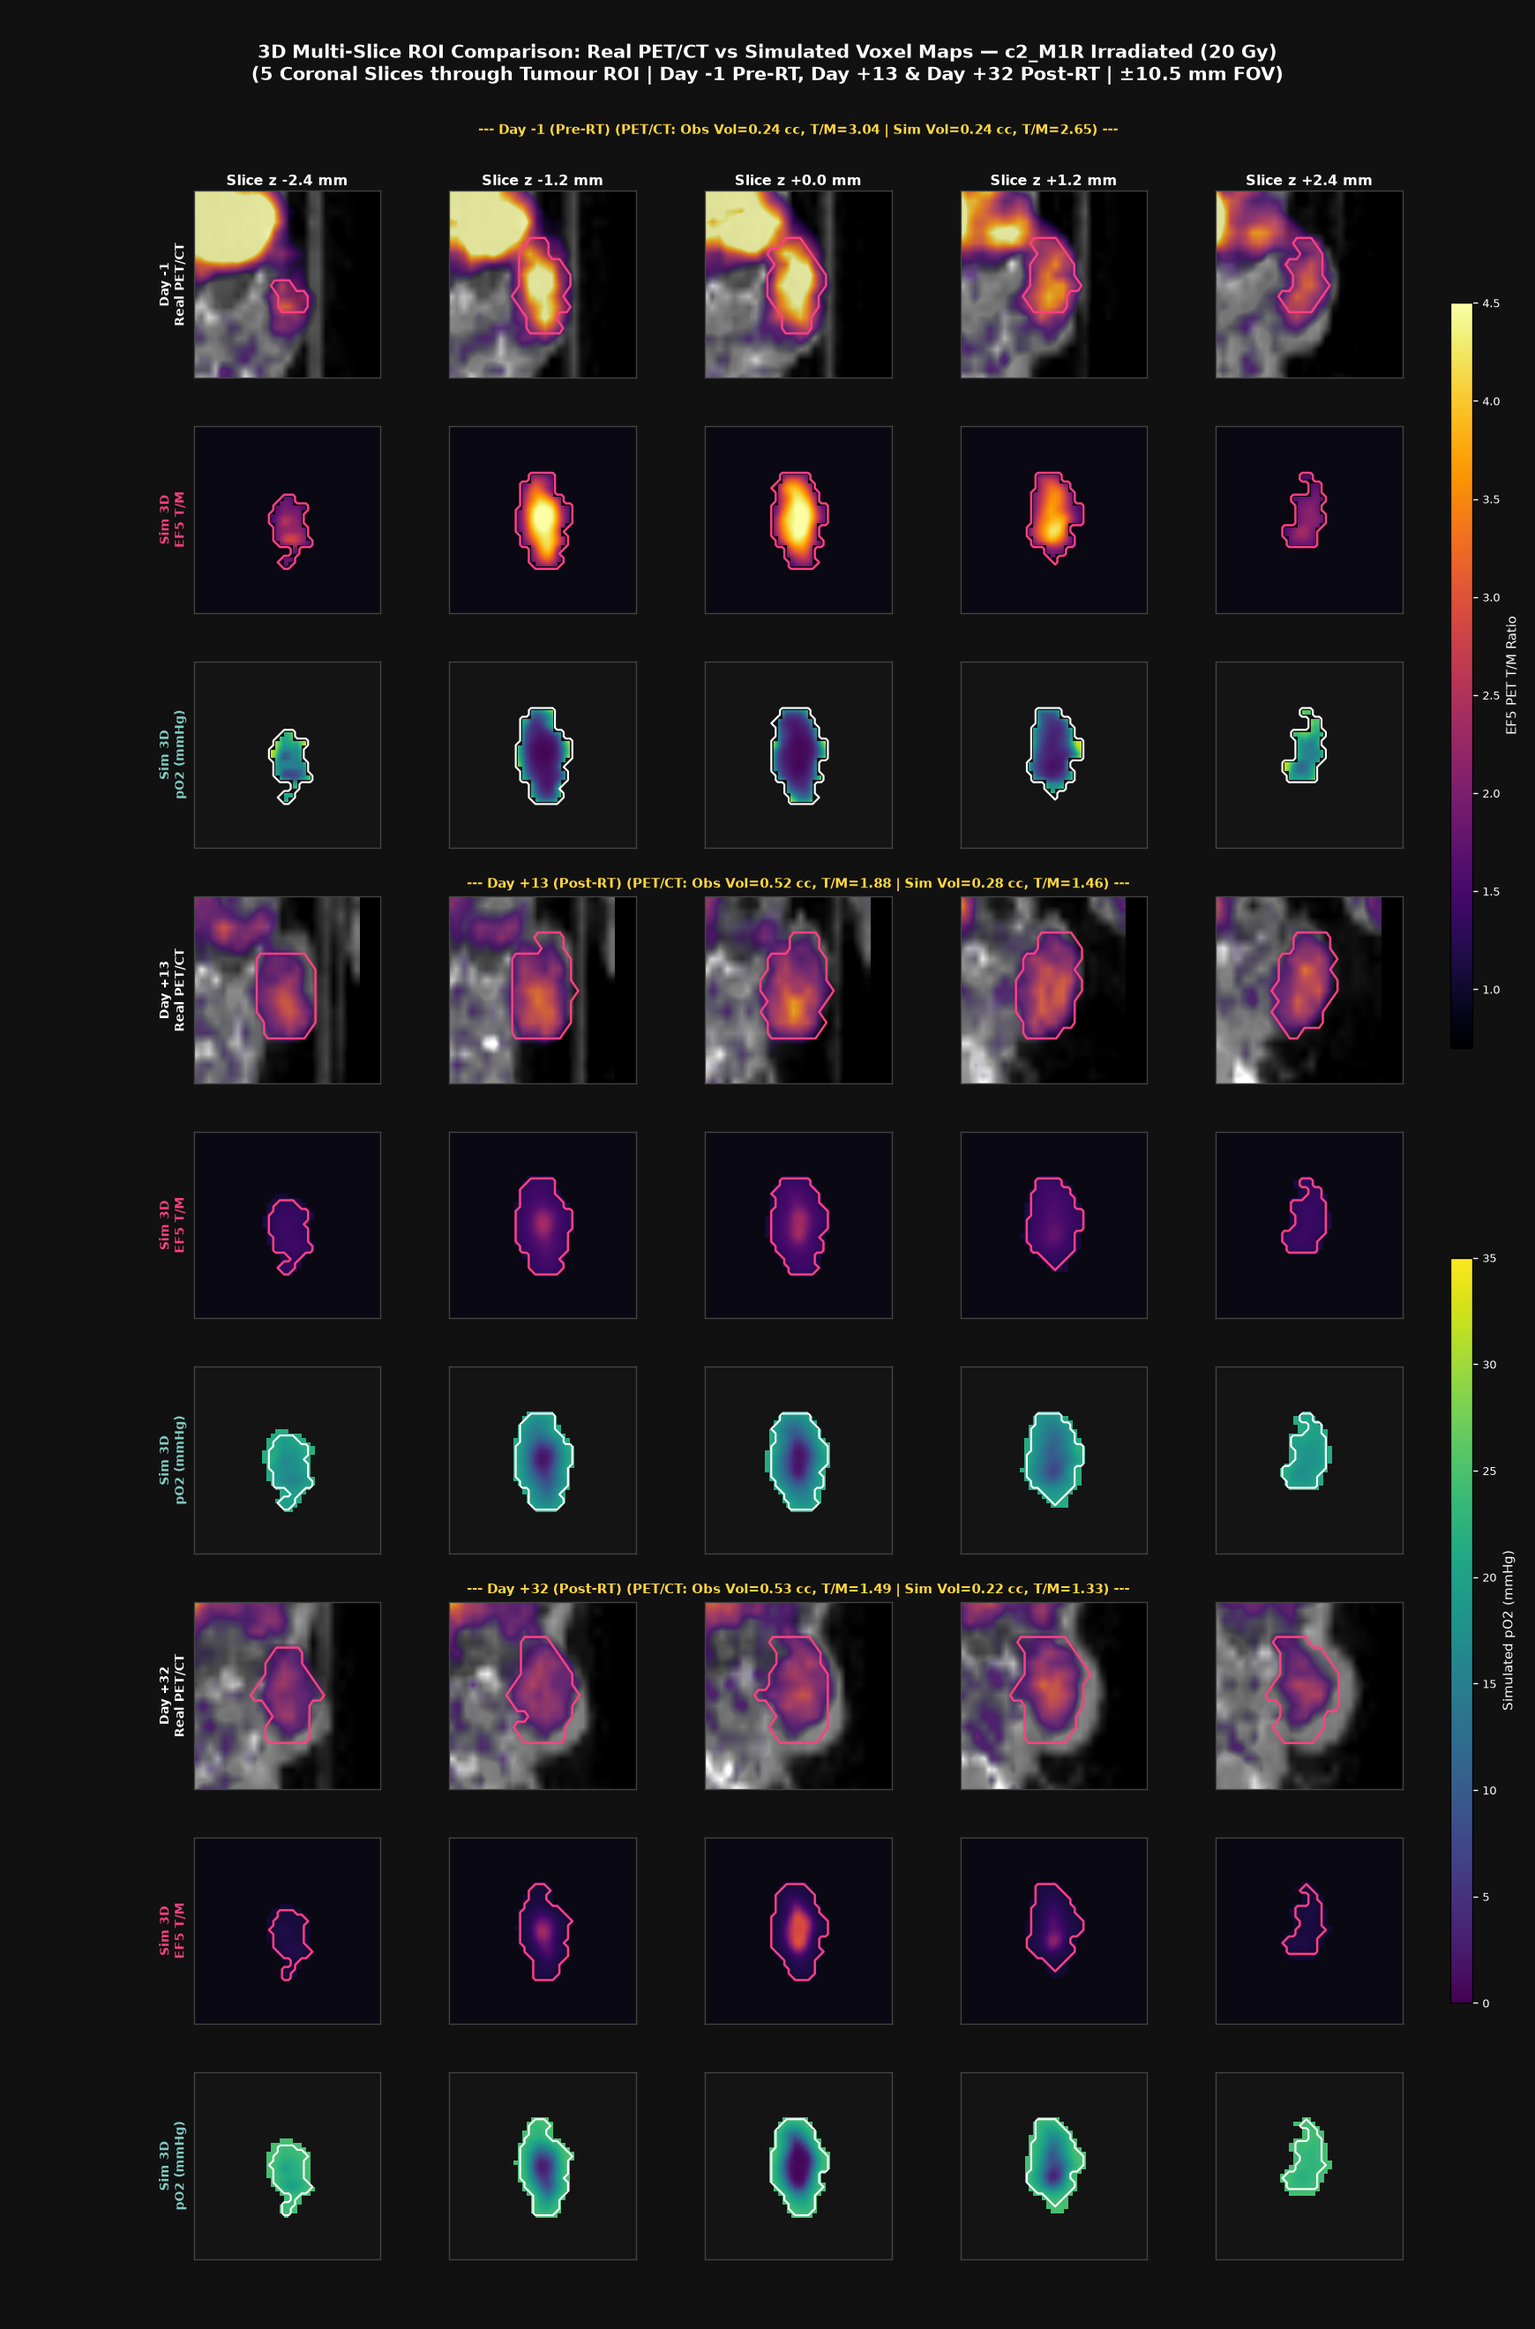
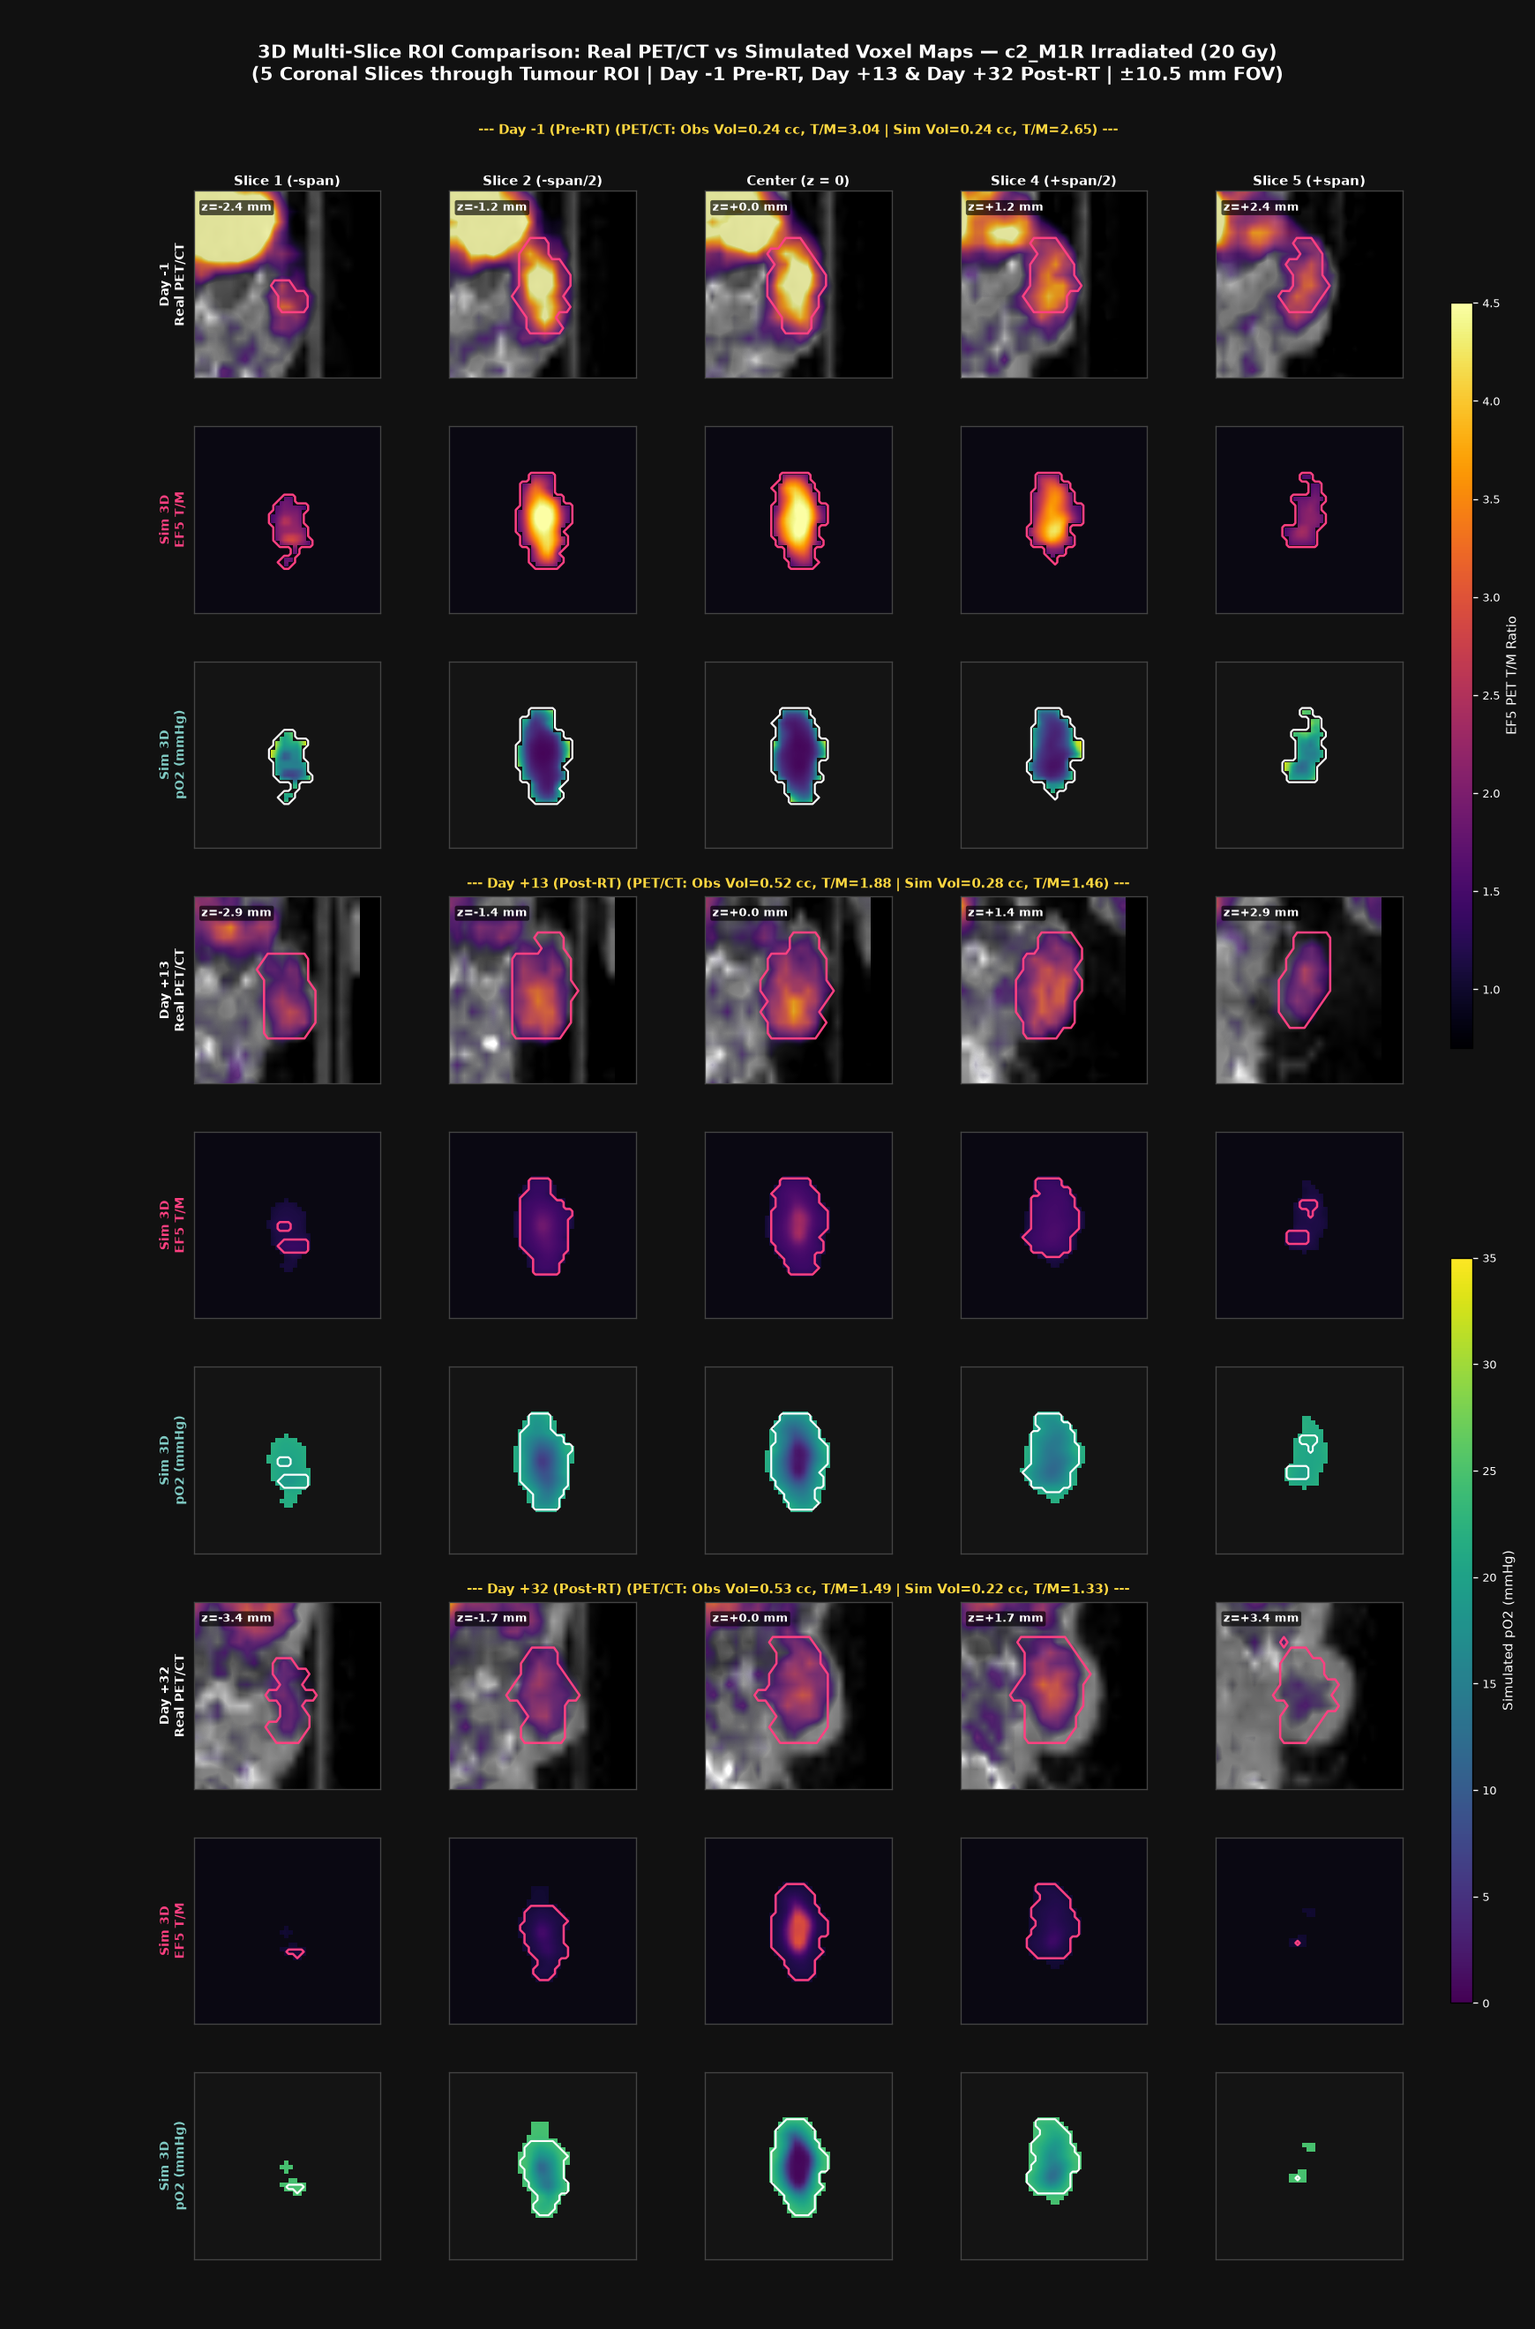
Use tumour-adaptive z-slices in 3D stacks and add checked citations to parameter table
- Replace fixed +-2.4 mm slice offsets with tumour-adaptive z-spanning in generate_visual_report.py
  so enlarged Day +13/+32 control tumours (e.g. c2_M1R Ctrl, z_span=15.2 mm) capture their real
  asymmetric hypoxic lobe (T/M up to 3.9-4.0 at z = -2.6 to -5.2 mm)
- Add checked literature citations (now 21 verified references with DOIs, including Thomlinson &
  Gray 1955, Brown & Wilson 2004, Vaupel et al. 2007) to every supported row in Section 2.4

diff --git a/src/modeling/generate_visual_report.py b/src/modeling/generate_visual_report.py
@@ -456,6 +456,33 @@ def _extract_sim_multislice(
     }
 
 
+def _adaptive_z_offsets(
+    npz_path: Path, side: str, res: VoxelSimulationResult, snap_day: float
+) -> List[float]:
+    """
+    Computes 5 evenly spaced coronal slice offsets spanning [-span, +span] around the tumour
+    centroid at a given timepoint, adapting to tumour growth so enlarged Day +13/+32 control
+    tumours do not clip out peripheral hypoxic lobes.
+    """
+    z_half = 3.4
+    if npz_path.exists():
+        d = np.load(npz_path, allow_pickle=False)
+        if bool(d[f"has_{side}_roi"].item()):
+            mk = np.asarray(d[f"mask_{side}_pet"], dtype=bool)
+            if np.any(mk):
+                z_mm = np.asarray(d["pet_z_mm"], dtype=np.float64)
+                iz = np.nonzero(mk)[1]
+                z_half = 0.5 * float(np.max(z_mm[iz]) - np.min(z_mm[iz]))
+    else:
+        mask_s = res.snapshots[snap_day]["roi_mask"]
+        if np.any(mask_s):
+            iz = np.nonzero(mask_s)[1]
+            z_mm = res.init_state.z_mm
+            z_half = 0.5 * float(np.max(z_mm[iz]) - np.min(z_mm[iz]))
+    span = round(float(np.clip(0.68 * z_half, 2.4, 5.2)), 1)
+    return [round(span * f, 1) for f in (-1.0, -0.5, 0.0, 0.5, 1.0)]
+
+
 def build_fig3_multislice_panel(
     root: Path,
     out_path: Path,
@@ -466,10 +493,10 @@ def build_fig3_multislice_panel(
     """
     Renders a 9-row x 5-column multi-slice ROI visual stack:
       3 timepoints (Day -1, Day +13, Day +32) x 3 modalities (Real PET/CT Overlay, Sim EF5 T/M, Sim pO2)
-      across 5 coronal slices spanning the tumour ROI (dz = -2.4, -1.2, 0.0, +1.2, +2.4 mm).
+      across 5 coronal slices spanning each timepoint's tumour ROI z-extent.
     """
-    offsets_mm = [-2.4, -1.2, 0.0, 1.2, 2.4]
     tp_specs = [(-1, 0.0, "Day -1 (Pre-RT)"), (13, 14.0, "Day +13 (Post-RT)"), (32, 33.0, "Day +32 (Post-RT)")]
+    col_headers = ["Slice 1 (-span)", "Slice 2 (-span/2)", "Center (z = 0)", "Slice 4 (+span/2)", "Slice 5 (+span)"]
     contour_col = "#FF4081" if side == "rt" else "#00E5FF"
     trt_lbl = "Irradiated (20 Gy)" if side == "rt" else "Control (0 Gy)"
     lim_mm = 10.5
@@ -488,7 +515,9 @@ def build_fig3_multislice_panel(
     im_po2_ref = None
 
     for tp_i, (d_study, sk, tp_title) in enumerate(tp_specs):
-        obs = _extract_obs_multislice(_bundle_path(root, mouse_id, d_study), side, offsets_mm)
+        npz_tp = _bundle_path(root, mouse_id, d_study)
+        offsets_mm = _adaptive_z_offsets(npz_tp, side, res, sk)
+        obs = _extract_obs_multislice(npz_tp, side, offsets_mm)
         sim = _extract_sim_multislice(res, sk, offsets_mm)
         r_obs = tp_i * 3
         r_ef5 = tp_i * 3 + 1
@@ -521,8 +550,14 @@ def build_fig3_multislice_panel(
                     ax.contour(sl["mask"].astype(float), levels=[0.5], colors=[contour_col], linewidths=1.5, extent=ext, origin="lower")
                 ax.set_xlim(-lim_mm, lim_mm)
                 ax.set_ylim(-lim_mm, lim_mm)
+                ax.text(
+                    0.04, 0.94, f"z={dz:+.1f} mm",
+                    color="white", fontsize=7.5, fontweight="bold", ha="left", va="top",
+                    transform=ax.transAxes,
+                    bbox=dict(boxstyle="round,pad=0.18", facecolor="black", alpha=0.65, edgecolor="none"),
+                )
             if r_obs == 0:
-                ax.set_title(f"Slice z {dz:+.1f} mm", color="white", fontsize=9.5, fontweight="bold", pad=4)
+                ax.set_title(col_headers[c_i], color="white", fontsize=9.2, fontweight="bold", pad=4)
             elif c_i == 2:
                 mod_tag = "PET/CT" if (obs and obs["ct_avail"]) else "PET-only"
                 obs_tag = f"Obs Vol={obs['vol_cm3']:.2f} cc, T/M={obs['mean_tm']:.2f}" if obs else "No Obs Scan"

diff --git a/outputs/ef5_rt_model/reports/technical_report.md b/outputs/ef5_rt_model/reports/technical_report.md
@@ -222,24 +222,24 @@ $$\frac{\partial \phi_k}{\partial t} + \nabla \cdot (\mathbf{u}\,\phi_k) = R_k(\
 
 ### 2.4 Shared Biophysical Parameters (`RadiobiologyParams`, v2)
 
-| Symbol | Code Field | Value | Units | Physical Meaning |
-| :--- | :--- | :---: | :--- | :--- |
-| $p_{\text{host}}$ | `p_host_bdry` | `35.0` | `mmHg` | Shared host subcutaneous peritumoural $p\text{O}_2$ |
-| $p_{\text{hyp}}, p_{\text{nec}}$ | `p_hyp`, `p_nec` | `0.60`, `0.45` | `mmHg` | Half-max glycolytic proliferation & anoxia necrosis thresholds |
-| $k_{p,\max}, k_{p,\text{hyp}}$ | `kp_max`, `kp_hyp_floor` | `0.130`, `0.055` | `day⁻¹` | Normoxic & viable-hypoxic proliferation rates |
-| $V_{\text{stress}}, n_s$ | `v_stress_cm3`, `hill_stress` | `0.55`, `2.0` | `cm³`, `–` | Host elastic crowding saturation scale & exponent |
-| $P_{\text{crit}}$ | `p_darcy_crit` | `0.65` | `mm²/day` | Critical Darcy pressure for stress-inhibited mitosis & vessel compression |
-| $k_a, k_{\text{nec},\max}$ | `ka_basal`, `k_nec_max` | `0.010`, `0.085` | `day⁻¹` | Basal apoptosis & severe-anoxia necrosis conversion rate |
-| $k_{D_1,\text{prolif}}, k_{D_1 \to D_2}$ | `k_d1_prolif`, `k_d1_to_d2` | `0.022`, `0.075` | `day⁻¹` | Abortive swelling & ~13.3-day p53-WT senescence transit lag |
-| $k_{\text{cl},\min}, k_{\text{cl},\text{O}_2}$ | `k_clear_min`, `k_clear_o2` | `0.012`, `0.052` | `day⁻¹` | Baseline & perfusion-assisted lysis clearance rates of $D_2$ |
-| $\eta_{\text{fib}}, k_{\text{nec,cl}}$ | `eta_fibrotic`, `k_nec_clear` | `0.60`, `0.008` | `–`, `day⁻¹` | Persistent fibrotic scaffold fraction & slow core compaction |
-| $D_{\text{O}_2}, \gamma_0, K_m$ | `D_o2`, `gamma_0`, `K_m_o2` | `0.010`, `6.0`, `2.0` | `mm²/u`, `mmHg/u`, `mmHg` | Krogh-scale O₂ transport ($L_{\text{O}_2} \approx 0.24\text{ mm}$) & Michaelis–Menten uptake |
-| $q_{D_1}, q_{D_2}$ | `q_d1`, `q_d2` | `0.14`, `0.08` | `–` | Relative O₂ demand of doomed $D_1$ & lysing/inflammatory $D_2$ |
-| $\alpha, \beta$ | `alpha`, `beta` | `0.185`, `0.018` | `Gy⁻¹`, `Gy⁻²` | Normoxic *in vivo* A549 LQ radiosensitivity ($\alpha/\beta = 10.3\text{ Gy}$) |
-| $m, K_{\text{OER}}$ | `oer_max`, `K_oer` | `3.0`, `3.5` | `–`, `mmHg` | Alper–Howard-Flanders maximal OER & half-sensitisation $p\text{O}_2$ |
-| $D_{50,\text{vasc}}, h_v, \Delta_{\max}$ | `vasc_damage_*` | `15.5`, `5.0`, `0.82` | `Gy`, `–`, `–` | High-dose endothelial injury threshold, Hill steepness & max drop |
-| $r_{\text{rec}}, k_{\text{boost}}$ | `vasc_recovery_rate`, `high_dose_lysis_boost` | `0.012`, `0.068` | `day⁻¹` | Post-RT microvascular recovery & collapse-driven compaction boost |
-| $\text{TM}_{\min}, \text{TM}_{\max}, K_{\text{EF5}}, w_{D_1}$ | `tm_*`, `K_ef5`, `ef5_d1_weight` | `1.0`, `5.5`, `5.5`, `0.82` | `–`, `–`, `mmHg`, `–` | Koch/Evans bioreductive EF5 PET binding & senescent $D_1$ weight |
+| Symbol | Code Field | Value | Units | Physical Meaning | Literature Support / Calibration Source |
+| :--- | :--- | :---: | :--- | :--- | :--- |
+| $p_{\text{host}}$ | `p_host_bdry` | `35.0` | `mmHg` | Shared host subcutaneous peritumoural $p\text{O}_2$ | Normal subcutaneous tissue $p\text{O}_2 \approx 30\text{--}40\text{ mmHg}$ [20, 21] |
+| $p_{\text{hyp}}, p_{\text{nec}}$ | `p_hyp`, `p_nec` | `0.60`, `0.45` | `mmHg` | Half-max glycolytic proliferation & severe anoxia necrosis thresholds | Anoxia/necrosis onset $< 0.5\text{--}1.0\text{ mmHg}$ [7, 18, 20] |
+| $k_{p,\max}, k_{p,\text{hyp}}$ | `kp_max`, `kp_hyp_floor` | `0.130`, `0.055` | `day⁻¹` | Normoxic & viable-hypoxic proliferation rates | Calibrated to A549 untreated `Day -15 → Day -1` & control growth [1] |
+| $V_{\text{stress}}, n_s$ | `v_stress_cm3`, `hill_stress` | `0.55`, `2.0` | `cm³`, `–` | Host elastic crowding saturation scale & exponent | Solid-stress crowding mechanics [8–10]; calibrated to A549 flank plateau [1] |
+| $P_{\text{crit}}$ | `p_darcy_crit` | `0.65` | `mm²/day` | Critical Darcy pressure for stress-inhibited mitosis & vessel compression | Byrne Darcy mechanics [8, 9] & Jain solid-stress vessel compression [10] |
+| $k_a, k_{\text{nec},\max}$ | `ka_basal`, `k_nec_max` | `0.010`, `0.085` | `day⁻¹` | Basal apoptosis & severe-anoxia necrosis conversion rate | Necrotic core formation dynamics [7, 8]; tuned to A549 xenografts |
+| $k_{D_1,\text{prolif}}, k_{D_1 \to D_2}$ | `k_d1_prolif`, `k_d1_to_d2` | `0.022`, `0.075` | `day⁻¹` | Abortive swelling & ~13.3-day p53-WT senescence transit lag | Delayed mitotic catastrophe / composition dynamics [5]; calibrated to A549 [1] |
+| $k_{\text{cl},\min}, k_{\text{cl},\text{O}_2}$ | `k_clear_min`, `k_clear_o2` | `0.012`, `0.052` | `day⁻¹` | Baseline & perfusion-assisted lysis clearance rates of $D_2$ | Oxygen-modulated post-RT clearance [5]; calibrated to PLOS ONE [1] |
+| $\eta_{\text{fib}}, k_{\text{nec,cl}}$ | `eta_fibrotic`, `k_nec_clear` | `0.60`, `0.008` | `–`, `day⁻¹` | Persistent fibrotic scaffold fraction & slow core compaction | Non-vanishing post-RT tumour floor (`~0.7×` at `40 Gy`) [1, 5] |
+| $D_{\text{O}_2}, \gamma_0, K_m$ | `D_o2`, `gamma_0`, `K_m_o2` | `0.010`, `6.0`, `2.0` | `mm²/u`, `mmHg/u`, `mmHg` | Krogh-scale O₂ transport ($L_{\text{O}_2} \approx 0.24\text{ mm}$) & Michaelis–Menten uptake | Krogh diffusion distance `~100–250 μm` & $K_m \approx 1\text{--}2.5\text{ mmHg}$ [18, 19] |
+| $q_{D_1}, q_{D_2}$ | `q_d1`, `q_d2` | `0.14`, `0.08` | `–` | Relative O₂ demand of doomed $D_1$ & lysing/inflammatory $D_2$ | Post-RT metabolic drop driving reoxygenation [5]; calibrated to EF5 PET |
+| $\alpha, \beta$ | `alpha`, `beta` | `0.185`, `0.018` | `Gy⁻¹`, `Gy⁻²` | Normoxic *in vivo* A549 LQ radiosensitivity ($\alpha/\beta = 10.3\text{ Gy}$) | Canonical tumour $\alpha/\beta \approx 10\text{ Gy}$ [4]; calibrated to A549 *in vivo* [1] |
+| $m, K_{\text{OER}}$ | `oer_max`, `K_oer` | `3.0`, `3.5` | `–`, `mmHg` | Alper–Howard-Flanders maximal OER & half-sensitisation $p\text{O}_2$ | Standard $m \approx 2.8\text{--}3.0$, $K_{\text{OER}} \approx 2.5\text{--}4.0\text{ mmHg}$ [2, 3, 20] |
+| $D_{50,\text{vasc}}, h_v, \Delta_{\max}$ | `vasc_damage_*` | `15.5`, `5.0`, `0.82` | `Gy`, `–`, `–` | High-dose endothelial injury threshold, Hill steepness & max drop | Acute endothelial apoptosis & vascular shutdown above `10–20 Gy` [11, 12] |
+| $r_{\text{rec}}, k_{\text{boost}}$ | `vasc_recovery_rate`, `high_dose_lysis_boost` | `0.012`, `0.068` | `day⁻¹` | Post-RT microvascular recovery & collapse-driven compaction boost | Secondary cell death / collapse after high-dose vascular injury [12] |
+| $\text{TM}_{\min}, \text{TM}_{\max}, K_{\text{EF5}}, w_{D_1}$ | `tm_*`, `K_ef5`, `ef5_d1_weight` | `1.0`, `5.5`, `5.5`, `0.82` | `–`, `–`, `mmHg`, `–` | Koch/Evans bioreductive EF5 PET binding & senescent $D_1$ weight | Half-max EF5 binding `~0.5–1% O₂` (`4–7.6 mmHg`) [13]; A549 `T/M` range [1] |
 
 ---
 
@@ -263,6 +263,9 @@ $$\frac{\partial \phi_k}{\partial t} + \nabla \cdot (\mathbf{u}\,\phi_k) = R_k(\
 16. **Rockne R, Rockhill JK, Mrugala M, Spence AM, Kalet I, Hendrickson K, Lai A, Cloughesy T, Alvord EC Jr, Swanson KR (2010).** *Predicting the efficacy of radiotherapy in individual glioblastoma patients in vivo: a mathematical modeling approach.* **Physics in Medicine and Biology**, 55(12): 3271–3285. DOI: [10.1088/0031-9155/55/12/001](https://doi.org/10.1088/0031-9155/55/12/001)
 17. **Toma-Dasu I, Uhrdin J, Antonovic L, Dasu A, Nuyts S, Dirix P, Haustermans K, Brahme A (2012).** *Dose prescription and treatment planning based on FMISO-PET hypoxia.* **Acta Oncologica**, 51(2): 222–230. DOI: [10.3109/0284186X.2011.599815](https://doi.org/10.3109/0284186X.2011.599815)
 18. **Grimes DR, Kelly CJ, Bloch K, Partridge M (2014).** *A method for estimating the oxygen consumption rate in multicellular tumour spheroids.* **Journal of the Royal Society Interface**, 11(96): 20131124. DOI: [10.1098/rsif.2013.1124](https://doi.org/10.1098/rsif.2013.1124)
+19. **Thomlinson RH, Gray LH (1955).** *The histological structure of some human lung cancers and the possible implications for radiotherapy.* **British Journal of Cancer**, 9(4): 539–549. DOI: [10.1038/bjc.1955.55](https://doi.org/10.1038/bjc.1955.55)
+20. **Brown JM, Wilson WR (2004).** *Exploiting tumour hypoxia in cancer treatment.* **Nature Reviews Cancer**, 4(6): 437–447. DOI: [10.1038/nrc1367](https://doi.org/10.1038/nrc1367)
+21. **Vaupel P, Höckel M, Mayer A (2007).** *Detection and characterization of tumor hypoxia using pO2 histography.* **Antioxidants & Redox Signaling**, 9(8): 1221–1236. DOI: [10.1089/ars.2007.1628](https://doi.org/10.1089/ars.2007.1628)
 
 ---
 
